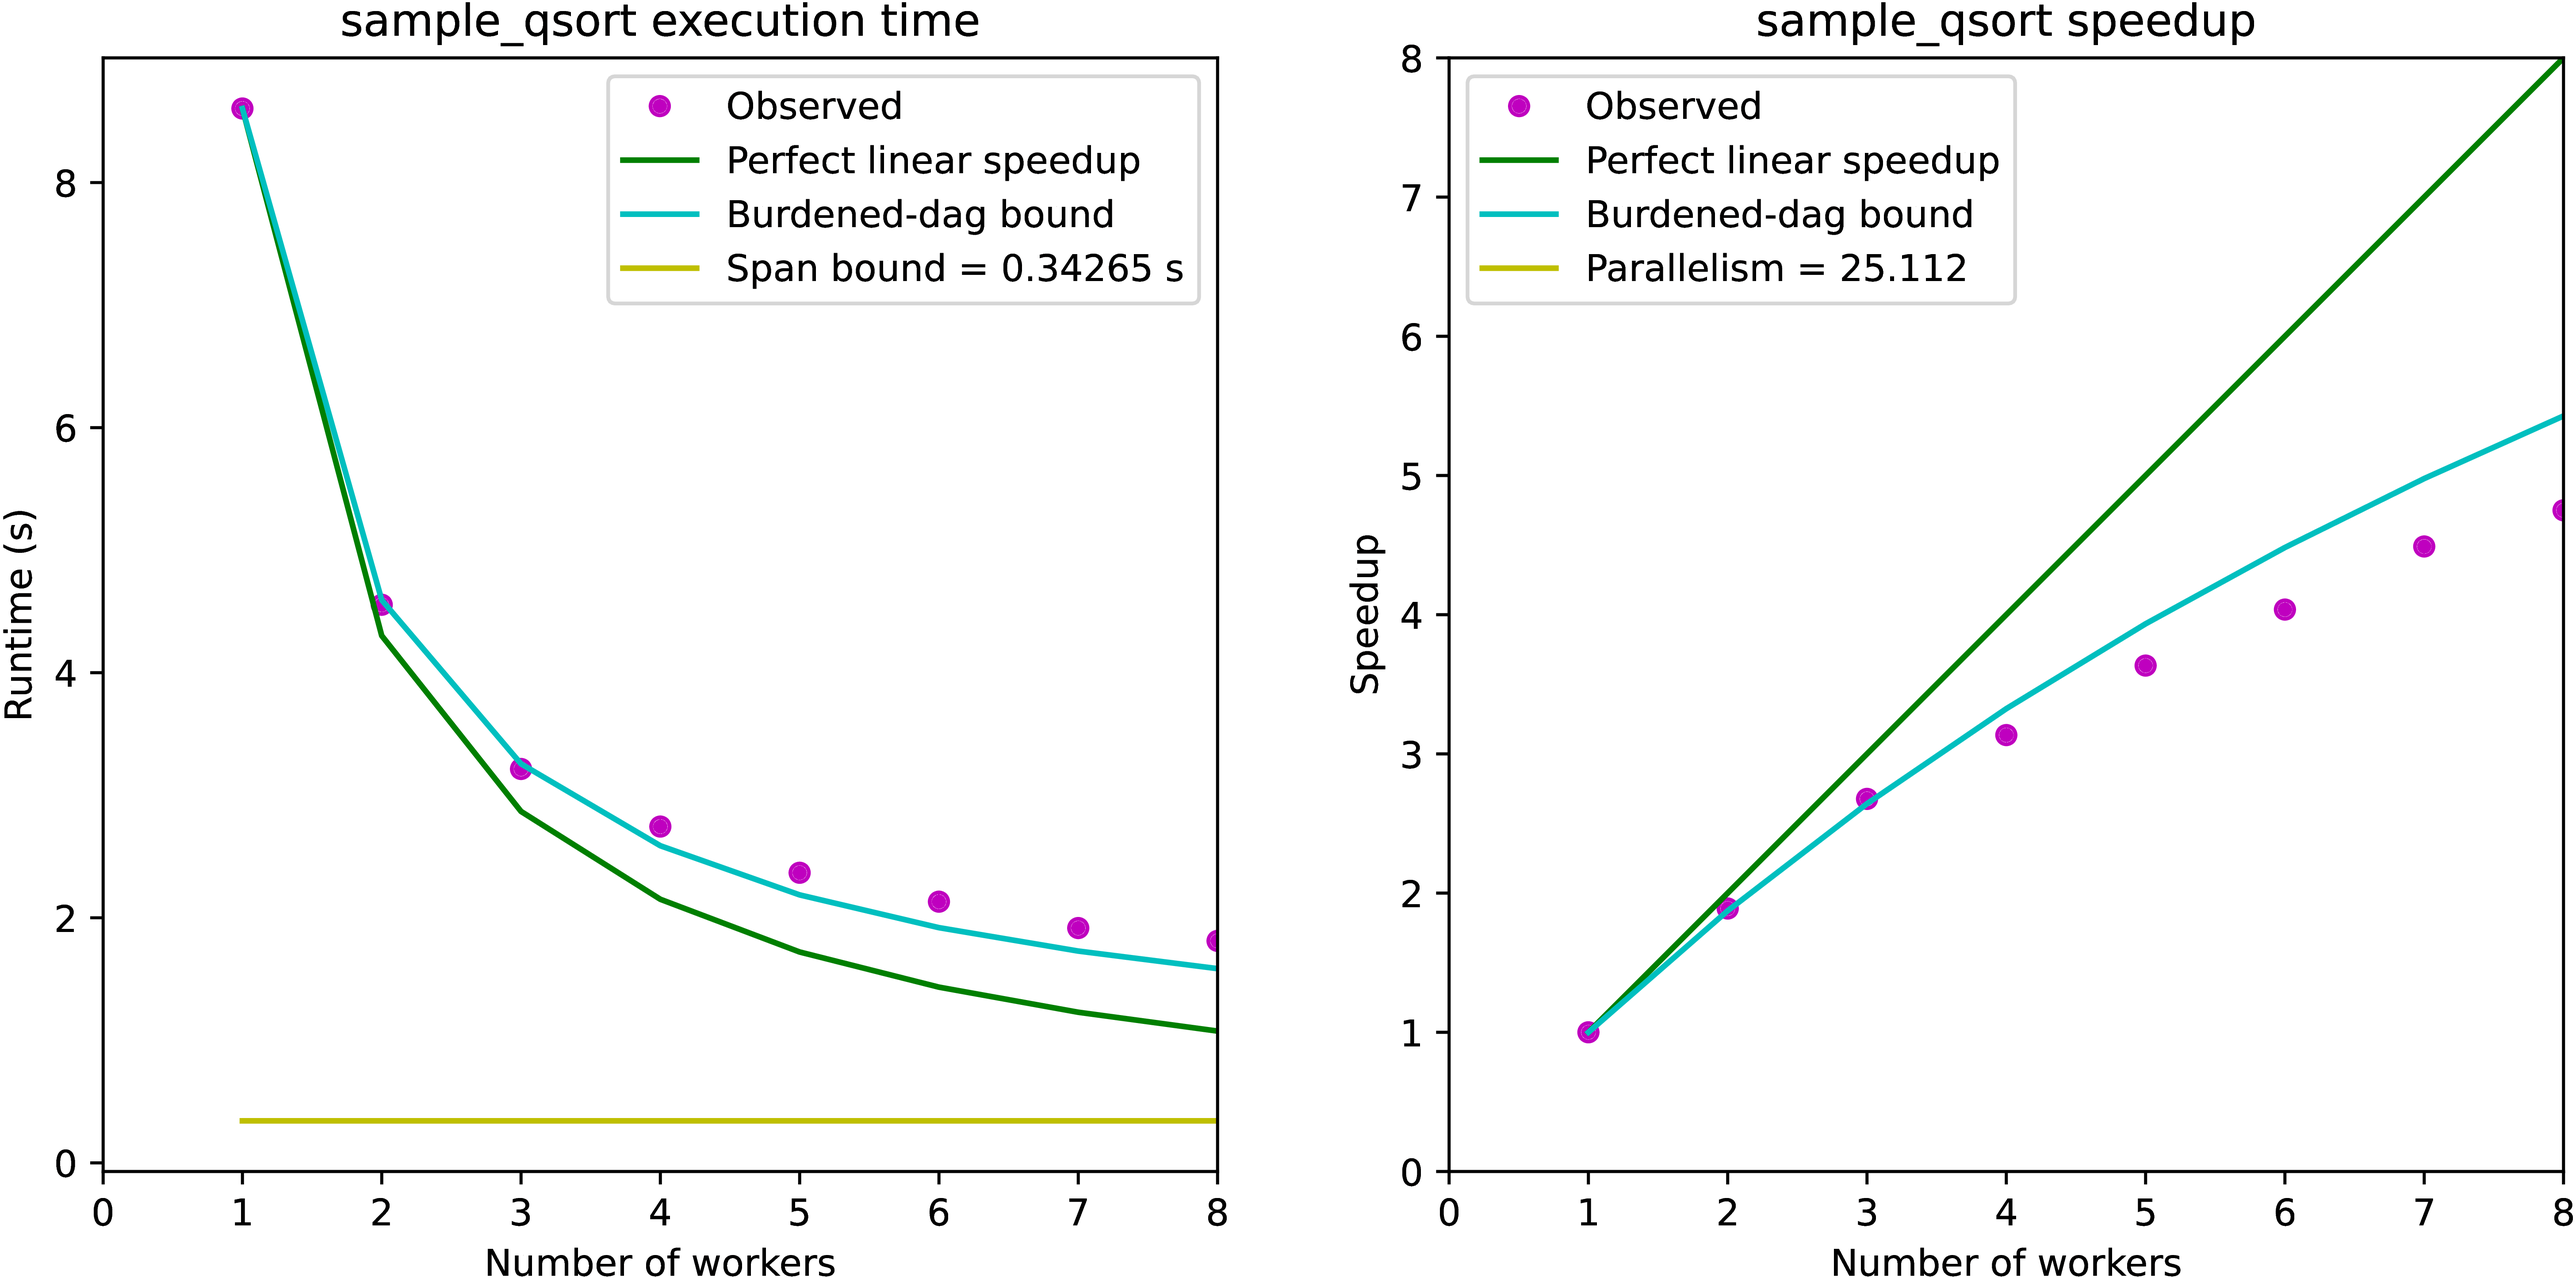
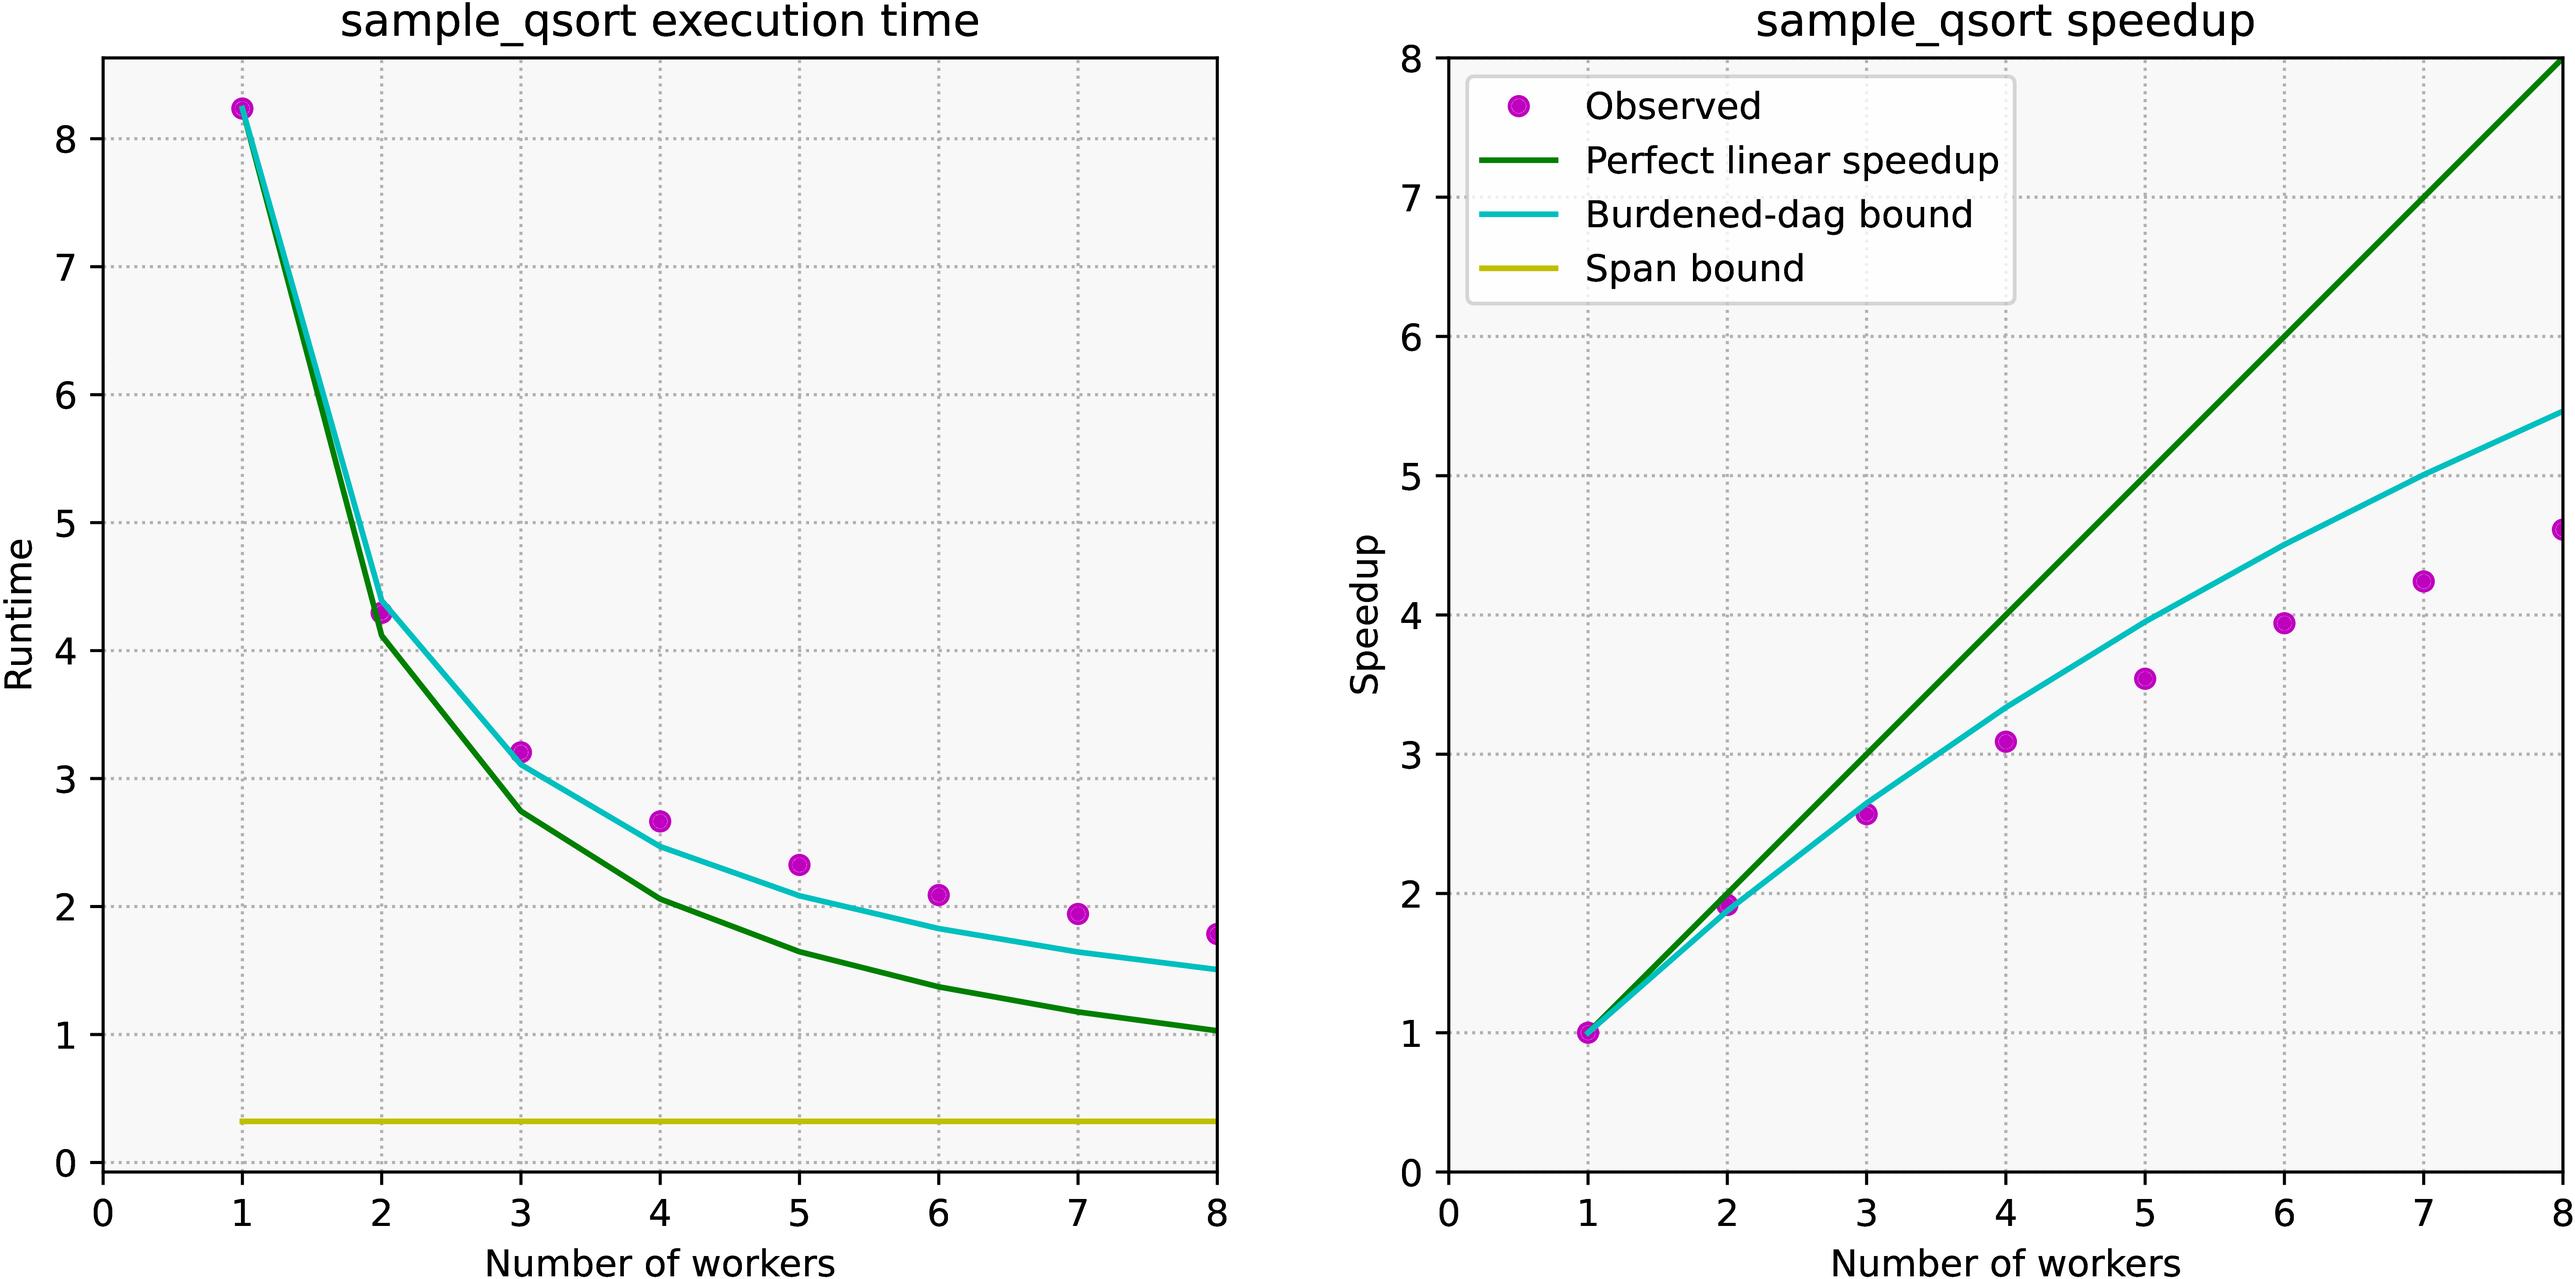
[Cilkscale] Update cilkscale.py output
- Off-white axes foreground in plots
- Dotted grid lines in plots
- Correction in CLI-formatted CSV table output
- Consistent plot sizes

diff --git a/src/doc/users-guide/cilkscale.md b/src/doc/users-guide/cilkscale.md
@@ -367,8 +367,8 @@ For example, the above run produced the following table:
 ```shell-session
 $ cat cstable_qsort.csv
 tag,work (seconds),span (seconds),parallelism,burdened_span (seconds),burdened_parallelism,1c time (seconds),2c time (seconds),3c time (seconds),4c time (seconds),5c time (seconds),6c time (seconds),7c time (seconds),8c time (seconds)
-sample_qsort,24.6038,0.979483,25.1192,0.97977,25.1118,8.60446,4.55467,3.21454,2.74446,2.36748,2.13149,1.91633,1.81146
-,25.7335,2.10917,12.2008,2.10945,12.1991,9.43337,5.57514,4.08113,3.61695,3.24241,3.02917,2.81753,2.70128
+sample_qsort,24.2803,0.947187,25.6341,0.947475,25.6263,8.2356,4.29502,3.20479,2.66523,2.32521,2.08997,1.9421,1.78548
+,25.3529,2.01976,12.5524,2.02005,12.5506,9.03899,5.14091,4.04561,3.4967,3.1653,2.94053,2.80945,2.68116
 ```
 
 To see the table contents more clearly, you can import `cstable_qsort.csv` into
@@ -377,10 +377,10 @@ a spreadsheet (e.g., with [LibreOffice](https://www.libreoffice.org/)) or
 tools](https://chrisjean.com/view-csv-data-from-the-command-line/):
 
 ```shell-session
-$ cat cstable_qsort.csv | sed -e 's/,,/, ,/g' | column -s, -t | less -#5 -N -S
-1 tag           work (seconds)  span (seconds)  parallelism  burdened_span (seconds)  burdened_parallelism  1c time (seconds) . . .
-2 sample_qsort  24.6038         0.979483        25.1192      0.97977                  25.1118               8.60446           . . .
-3 25.7335       2.10917         12.2008         2.10945      12.1991                  9.43337               5.57514           . . .
+$ cat cstable_qsort.csv | sed -e 's/^,/ ,/g' | column -s, -t | less -#5 -N -S
+1 tag           work (seconds)  span (seconds)  parallelism  burdened_span (seconds)  burdened_parallelism 1c time (seconds)  . . .
+2 sample_qsort  24.2803         0.947187        25.6341      0.947475                 25.6263              8.2356             . . .
+3               25.3529         2.01976         12.5524      2.02005                  12.5506              9.03899            . . .
 ```
 
 ### Scalability plots
@@ -395,7 +395,7 @@ page](/doc/reference/cilkscale/#performance-and-scalability-analysis-plots).
 
 Here are the plots in `csplots_qsort.pdf` for the above example:
 
-{% img "/img/qsort-cilkscale-scalability-plots.png", "1200" %}
+{% img "/img/qsort-cilkscale-scalability-plots.png", "1000" %}
 
 
 ## Discussion: diagnosing performance limitations

diff --git a/src/doc/reference/cilkscale.md b/src/doc/reference/cilkscale.md
@@ -375,7 +375,6 @@ Namespace(args=['100000000'], cilkscale='./qsort_cs', cilkscale_benchmark='./qso
 >> STDOUT (./qsort_cilkscale 100000000)
 Sorting 100000000 random integers
 Sort succeeded
-Time(sample_qsort) = 2.13294 sec
 << END STDOUT
 
 >> STDERR (./qsort_cilkscale 100000000)
